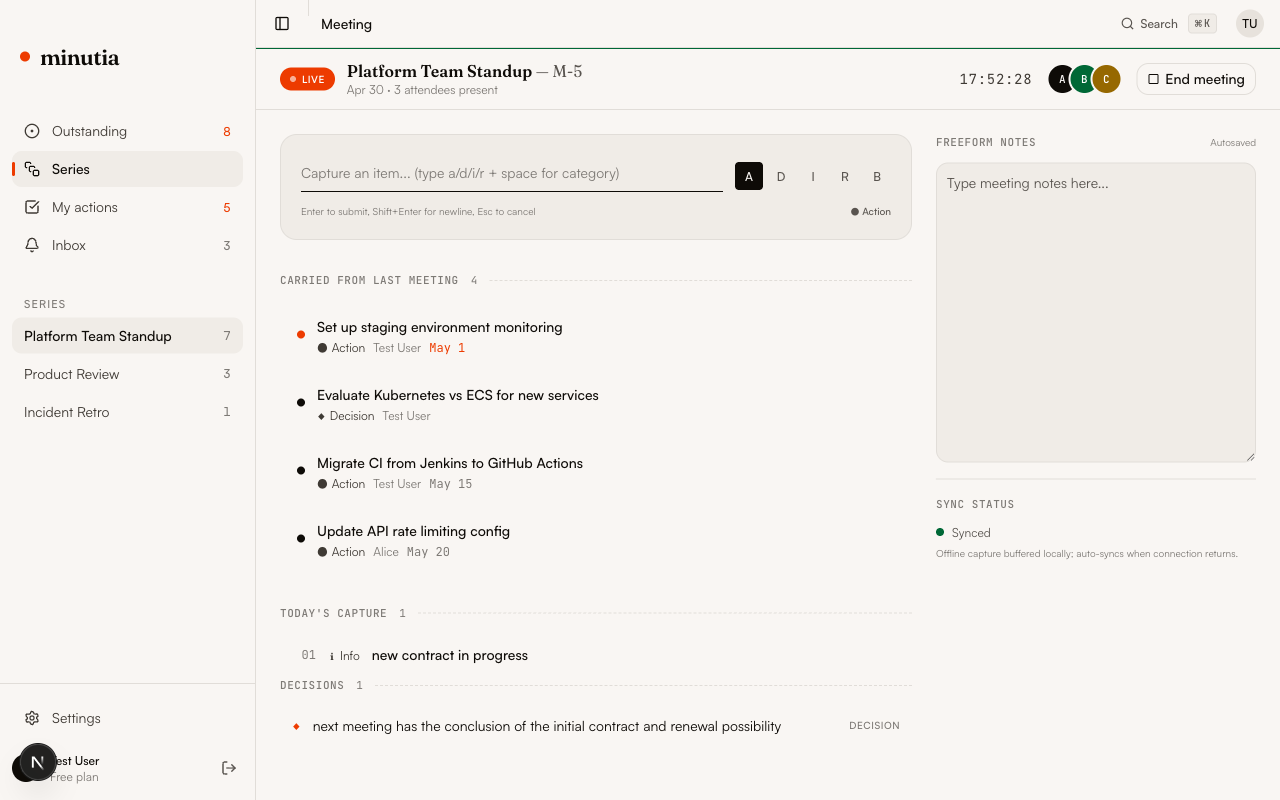
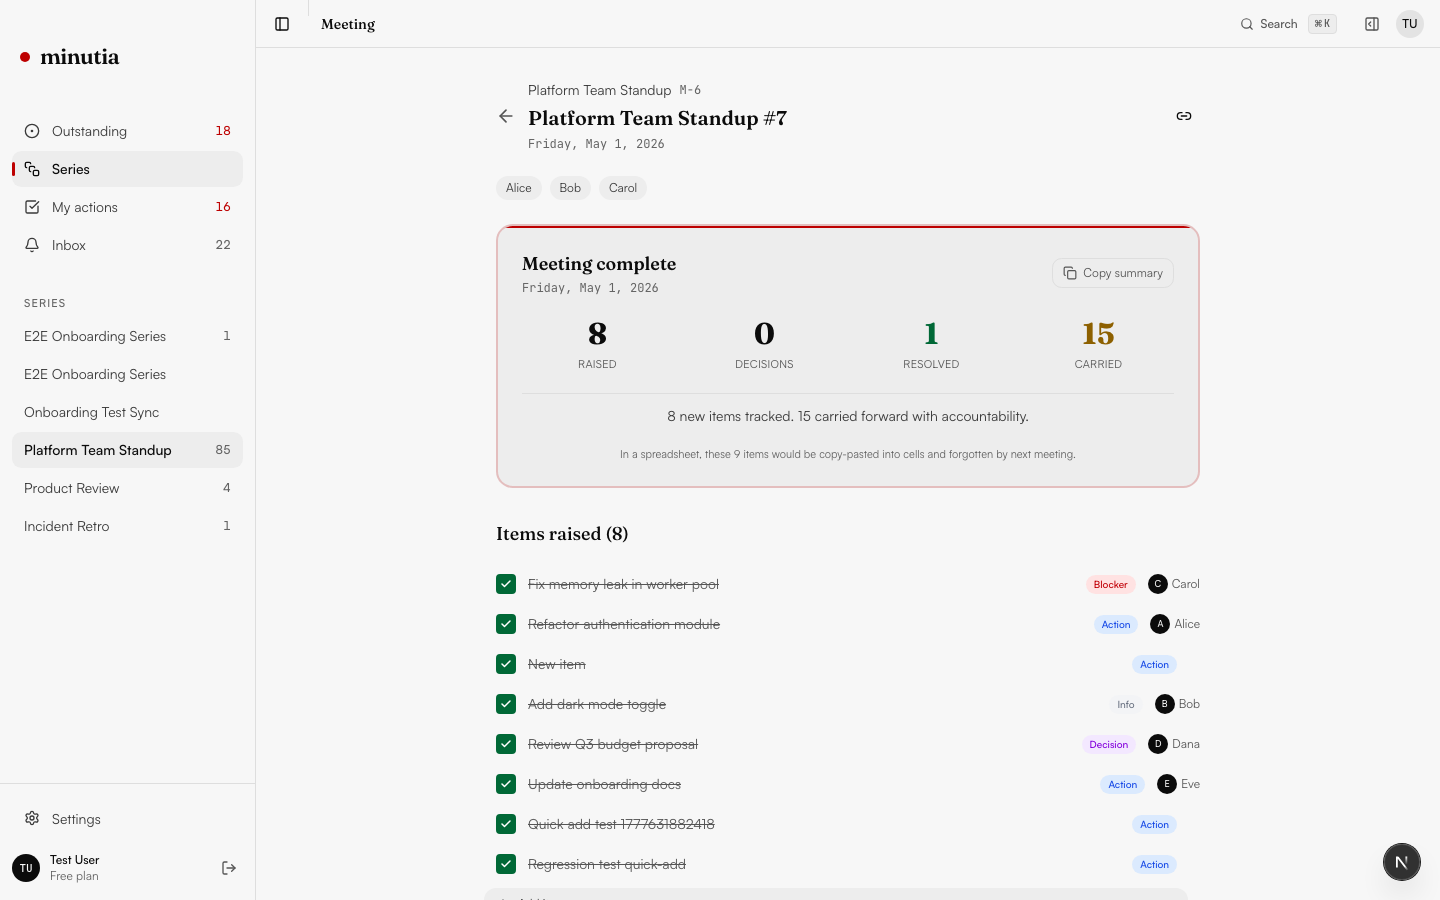
Update README and refresh all screenshots
Replace screenshots with latest UI state (May 2 2026). Add settings
page screenshot showing Google Calendar integration and data export.
Update roadmap: remove completed items (onboarding, landing page),
add Enterprise SSO to planned. Remove speculative Cloud pricing from
comparison table. Restructure feature sections to reflect inline
tasks, meeting complete view, and settings/integrations.

diff --git a/README.md b/README.md
@@ -37,11 +37,11 @@ Recurring meetings with cadence, attendees, and automatic pre-meeting briefs. Se
 
 ![Series Detail with Brief](public/screenshots/series-detail.png)
 
-### Live Capture
+### Meeting Complete & Inline Tasks
 
-Raise issues during meetings in real-time. Type `a ` for action, `d ` for decision, `i ` for info, `r ` for risk. Carried items from the last meeting are pre-populated. Works offline with auto-sync.
+After a meeting ends, see a summary of raised items, decisions, and carried-forward issues. Items render as interactive checklists with colored category pills (Action, Blocker, Decision, Info, Risk) and assignee avatars.
 
-![Live Capture Mode](public/screenshots/meeting-detail.png)
+![Meeting Complete](public/screenshots/meeting-detail.png)
 
 ### Issue Lifecycle
 
@@ -55,26 +55,21 @@ See everything you owe across all your meeting series, prioritized by urgency.
 
 ![My Actions](public/screenshots/my-actions.png)
 
-### Calendar Sidebar & Timeline
+### Settings & Integrations
 
-A persistent calendar panel (desktop inline, mobile bottom sheet) with mini-calendar, month navigation, and day agenda showing all meetings. Click any date to scroll the series timeline to that point. Toggle with Ctrl+. or the header button.
+Connect Google Calendar for read-only calendar sync, manage your profile, choose light/dark/system theme, and export all your data as CSV or JSON.
 
-Series detail pages feature a date-anchored timeline with expandable meeting sections, status icons (completed/live/upcoming), a Today divider, and inline issue and decision previews.
-
-### Inline Tasks
-
-Meeting items render as interactive checklist items with checkbox status toggles, inline title editing, colored category pills, and @mention assignee selection from attendees. Add new items inline with Enter. The meeting detail page becomes an active workspace, not a passive record.
-
-### Draggable Widgets
-
-The OIL Board dashboard is fully customizable. Drag widgets to reorder, resize between narrow and wide layouts, add or remove from a widget picker, and reset to defaults. Your layout persists across sessions via localStorage.
+![Settings](public/screenshots/settings.png)
 
 ### And more
 
-- **Google Sign-In** - One-click OAuth login alongside magic link and guest auth.
+- **Live Capture** - Raise issues in real-time with type prefixes (`a ` for action, `d ` for decision, `r ` for risk). Carried items from last meeting pre-populated. Works offline with auto-sync.
+- **Calendar Sidebar** - Persistent mini-calendar panel (Ctrl+.), month navigation, day agenda with meeting links, scroll-to-date integration on series timeline.
+- **Google Sign-In** - One-click OAuth login alongside email/password and guest auth.
 - **Guest Sharing** - Share read-only links with external collaborators. No account required.
 - **Command Palette** - Cmd+K to search across all issues and series instantly.
 - **CSV Import/Export** - Migrate from your spreadsheet in seconds. Export anytime.
+- **Draggable Widgets** - Drag-to-reorder and resize dashboard widgets. Layout persists via localStorage.
 - **Dark Mode** - Both modes are first-class, not afterthoughts.
 - **Self-hostable** - One-command Docker Compose deployment.
 
@@ -125,7 +120,7 @@ pnpm dev
 | AI required | No (opt-in) | Yes (core dependency) | No | No |
 | Calendar required | No | Yes | No | No |
 | Cross-meeting continuity | Core feature | Carry-forward | Manual linking | Manual copy-paste |
-| Price | Free (self-host) / $5/mo (Cloud) | $7-25/seat/mo | Free-$10/seat | Free |
+| Price | Free (self-host) | $7-25/seat/mo | Free-$10/seat | Free |
 
 ## AI Strategy
 
@@ -140,7 +135,6 @@ Self-hosters bring their own API key (Claude, OpenAI, Ollama). Cloud users get A
 ## Roadmap
 
 ### In Progress
-- Onboarding flow for first-time users
 - Email digests and pre-meeting nudges (Resend + SMTP)
 
 ### Planned
@@ -150,7 +144,7 @@ Self-hosters bring their own API key (Claude, OpenAI, Ollama). Cloud users get A
 - Team/org management (multi-user beyond single profile)
 - Drag-to-reorder issue priority
 - PDF export
-- Landing page and marketing site
+- Enterprise SSO (SAML / OIDC)
 
 ---
 
